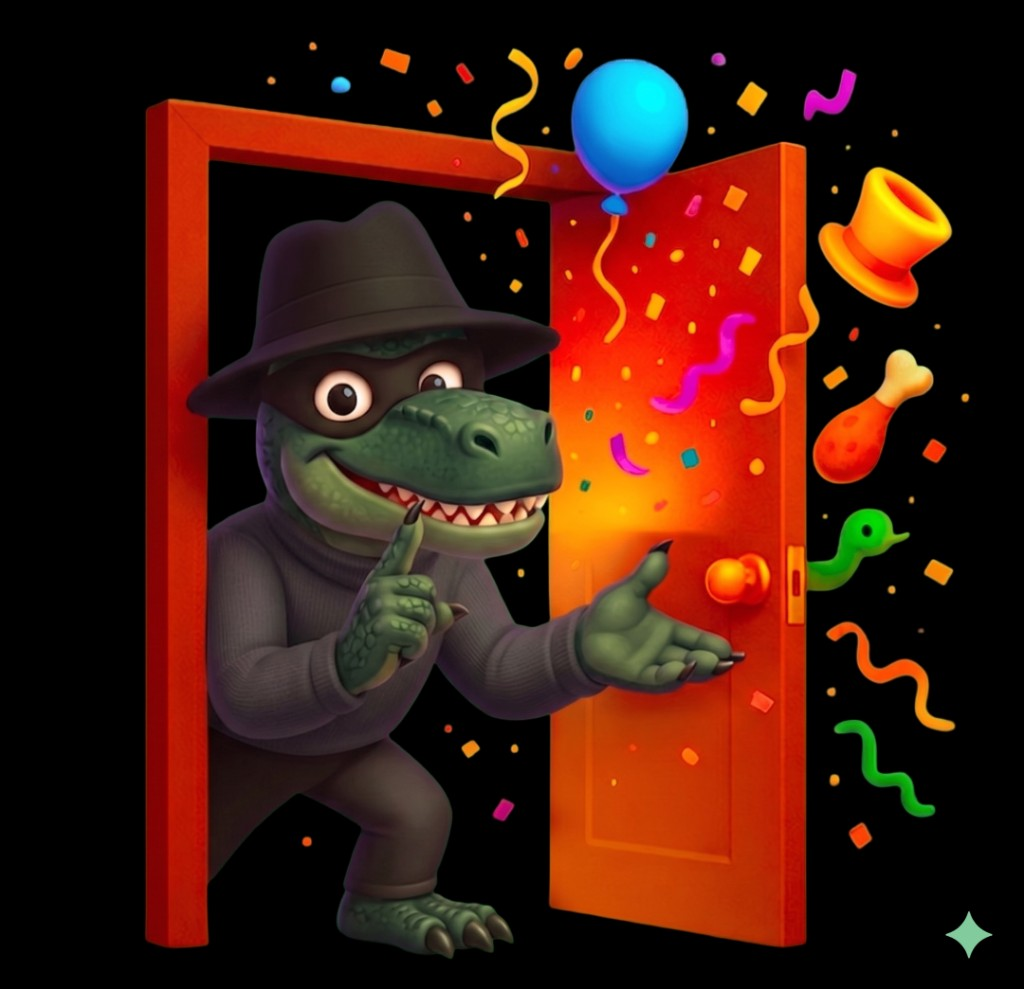
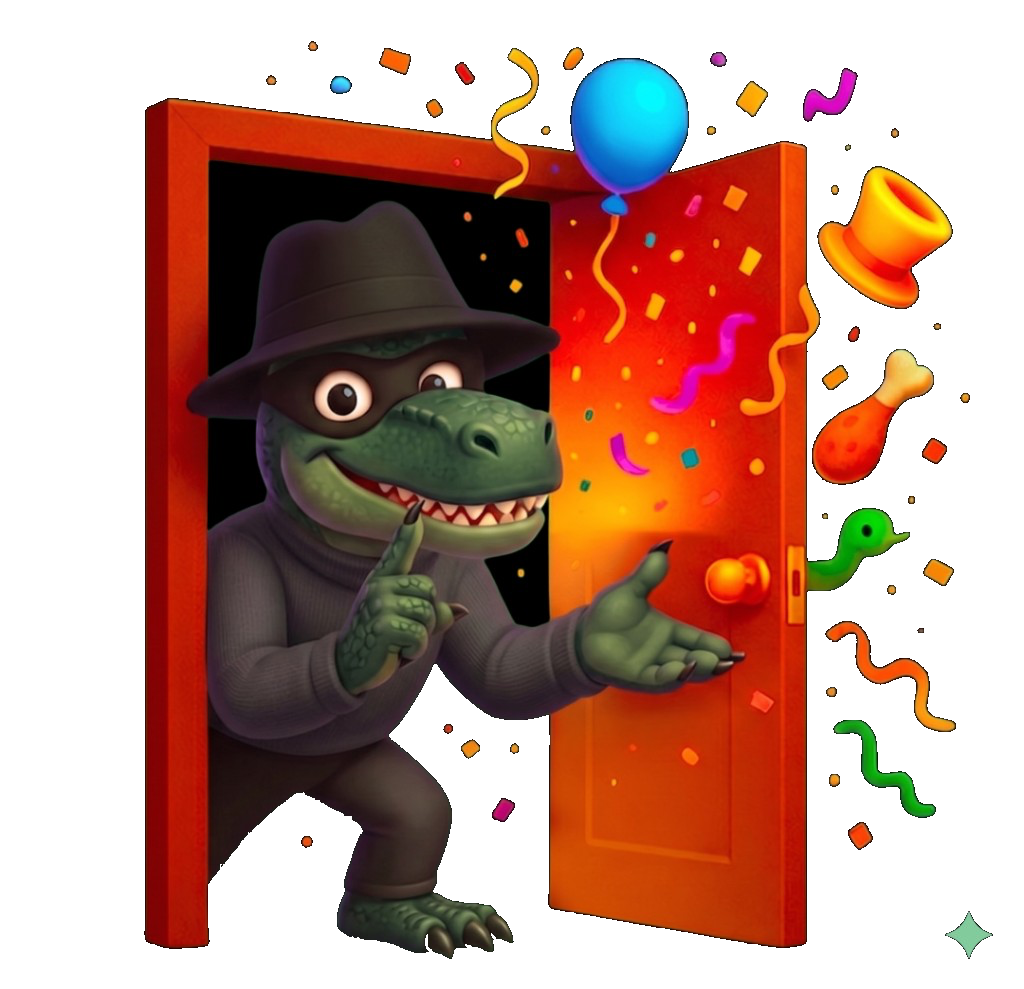
Paywall: category route, startup flow, UX, hero image, legal links
- Route locked categories to category paywall; later launches show category paywall before player setup
- Category paywall: plan selection, badges above borders, brighter cards, Terms/Privacy URLs
- Replace PaywallHeroTop asset; LoaderView uses hasCompletedOnboarding for first vs return launch

Made-with: Cursor

diff --git a/ImposterGame/Views/Paywall/CategoryPaywallView.swift b/ImposterGame/Views/Paywall/CategoryPaywallView.swift
@@ -4,9 +4,21 @@ struct CategoryPaywallView: View {
     @EnvironmentObject var router: AppRouter
     @EnvironmentObject var subscriptionManager: SubscriptionManager
     @Environment(\.dismiss) private var dismiss
+    @Environment(\.openURL) private var openURL
 
     @State private var isTrialEnabled = false
+    @State private var selectedPlan: Plan = .yearly
     @State private var showRestoreMessage = false
+
+    private enum Plan {
+        case yearly
+        case weekly
+    }
+
+    private enum CategoryPaywallLinks {
+        static let privacyURL = URL(string: "https://www.verte-bro.com/privacy-policy")
+        static let termsURL = URL(string: "https://www.verte-bro.com/terms-and-conditions")
+    }
 
     var body: some View {
         ZStack {
@@ -26,10 +38,13 @@ struct CategoryPaywallView: View {
 
                 freeAccessCard
 
-                yearlyPlanCard(dimmed: isTrialEnabled)
+                yearlyPlanCard(selected: selectedPlan == .yearly, dimmed: isTrialEnabled)
                     .padding(.top, 12)
-                weeklyPlanCard(selected: isTrialEnabled)
-                    .padding(.top, 10)
+                weeklyPlanCard(
+                    selected: selectedPlan == .weekly,
+                    badgeText: selectedPlan == .weekly ? "Most popular" : nil
+                )
+                .padding(.top, 10)
 
                 ctaButton
                     .padding(.top, 16)
@@ -92,29 +107,30 @@ struct CategoryPaywallView: View {
     }
 
     private var freeAccessCard: some View {
-        VStack(spacing: 10) {
+        Button(action: {
+            HapticsManager.selection()
+            withAnimation(.easeInOut(duration: 0.2)) {
+                isTrialEnabled.toggle()
+                if isTrialEnabled {
+                    selectedPlan = .weekly
+                }
+            }
+        }) {
+            VStack(spacing: 10) {
             HStack(spacing: 12) {
-                Button(action: {
-                    HapticsManager.selection()
-                    withAnimation(.easeInOut(duration: 0.2)) {
-                        isTrialEnabled.toggle()
-                    }
-                }) {
-                    ZStack {
+                ZStack {
+                    Circle()
+                        .stroke(Color.white.opacity(0.7), lineWidth: 2)
+                        .frame(width: 30, height: 30)
+                    if isTrialEnabled {
                         Circle()
-                            .stroke(Color.white.opacity(0.7), lineWidth: 2)
-                            .frame(width: 30, height: 30)
-                        if isTrialEnabled {
-                            Circle()
-                                .fill(Color.green)
-                                .frame(width: 28, height: 28)
-                            Image(systemName: "checkmark")
-                                .font(.antropicSerif(size: 14, weight: .bold))
-                                .foregroundColor(.white)
-                        }
+                            .fill(Color.green)
+                            .frame(width: 28, height: 28)
+                        Image(systemName: "checkmark")
+                            .font(.antropicSerif(size: 14, weight: .bold))
+                            .foregroundColor(.white)
                     }
                 }
-                .buttonStyle(.plain)
 
                 VStack(alignment: .leading, spacing: 2) {
                     Text(isTrialEnabled ? "Free access enabled" : "Not sure yet?")
@@ -141,18 +157,27 @@ struct CategoryPaywallView: View {
                     .padding(.leading, 44)
             }
         }
-        .padding(.horizontal, 16)
-        .padding(.vertical, 13)
-        .background(Color.white.opacity(0.04))
-        .clipShape(RoundedRectangle(cornerRadius: 18))
-        .overlay(
-            RoundedRectangle(cornerRadius: 18)
-                .stroke(Color.white.opacity(0.7), lineWidth: 1.5)
-        )
+            .padding(.horizontal, 16)
+            .padding(.vertical, 13)
+            .background(Color.white.opacity(0.16))
+            .clipShape(RoundedRectangle(cornerRadius: 18))
+            .overlay(
+                RoundedRectangle(cornerRadius: 18)
+                    .stroke(Color.white.opacity(0.7), lineWidth: 1.5)
+            )
+        }
+        .buttonStyle(.plain)
     }
 
-    private func yearlyPlanCard(dimmed: Bool) -> some View {
-        HStack {
+    private func yearlyPlanCard(selected: Bool, dimmed: Bool) -> some View {
+        Button(action: {
+            HapticsManager.selection()
+            withAnimation(.easeInOut(duration: 0.2)) {
+                selectedPlan = .yearly
+                isTrialEnabled = false
+            }
+        }) {
+            HStack {
             VStack(alignment: .leading, spacing: 2) {
                 Text("Yearly")
                     .font(.antropicSerif(size: 16, weight: .bold))
@@ -165,32 +190,46 @@ struct CategoryPaywallView: View {
             Text("0,96 USD/week")
                 .font(.antropicSerif(size: 16.5, weight: .bold))
                 .foregroundColor(.white)
+            }
+            .padding(.horizontal, 16)
+            .padding(.vertical, 14)
+            .background(
+                RoundedRectangle(cornerRadius: 16)
+                    .fill(Color.white.opacity(selected ? 0.24 : (dimmed ? 0.14 : 0.19)))
+            )
+            .overlay(
+                RoundedRectangle(cornerRadius: 16)
+                    .stroke(Color.white.opacity(selected ? 1.0 : (dimmed ? 0.2 : 0.65)), lineWidth: selected ? 2.5 : 1.5)
+            )
+            .overlay(alignment: .topTrailing) {
+                if selected {
+                    Text("Best value")
+                        .font(.antropicSerif(size: 11, weight: .bold))
+                        .foregroundColor(.white)
+                        .padding(.horizontal, 10)
+                        .padding(.vertical, 4)
+                        .background(
+                            Capsule()
+                                .fill(Color(red: 0.95, green: 0.28, blue: 0.63))
+                        )
+                        .offset(x: -10, y: -10)
+                        .zIndex(2)
+                }
+            }
+            .opacity(dimmed && !selected ? 0.52 : 1.0)
         }
-        .padding(.horizontal, 16)
-        .padding(.vertical, 14)
-        .background(Color.white.opacity(dimmed ? 0.08 : 0.14))
-        .clipShape(RoundedRectangle(cornerRadius: 16))
-        .overlay(alignment: .topTrailing) {
-            Text("Best value")
-                .font(.antropicSerif(size: 11, weight: .bold))
-                .foregroundColor(.white)
-                .padding(.horizontal, 10)
-                .padding(.vertical, 4)
-                .background(
-                    Capsule()
-                        .fill(Color(red: 0.95, green: 0.28, blue: 0.63))
-                )
-                .offset(x: -10, y: -10)
-        }
-        .overlay(
-            RoundedRectangle(cornerRadius: 16)
-                .stroke(Color.white.opacity(dimmed ? 0.2 : 0.65), lineWidth: 1.5)
-        )
-        .opacity(dimmed ? 0.52 : 1.0)
+        .buttonStyle(.plain)
     }
 
-    private func weeklyPlanCard(selected: Bool) -> some View {
-        HStack {
+    private func weeklyPlanCard(selected: Bool, badgeText: String?) -> some View {
+        Button(action: {
+            HapticsManager.selection()
+            withAnimation(.easeInOut(duration: 0.2)) {
+                selectedPlan = .weekly
+                isTrialEnabled = true
+            }
+        }) {
+            HStack {
             VStack(alignment: .leading, spacing: 2) {
                 Text("Weekly")
                     .font(.antropicSerif(size: 16, weight: .bold))
@@ -203,15 +242,34 @@ struct CategoryPaywallView: View {
             Text("9,99 USD/week")
                 .font(.antropicSerif(size: 16.5, weight: .bold))
                 .foregroundColor(.white)
+            }
+            .padding(.horizontal, 16)
+            .padding(.vertical, 14)
+            .background(
+                RoundedRectangle(cornerRadius: 16)
+                    .fill(Color.white.opacity(selected ? 0.22 : 0.16))
+            )
+            .overlay(
+                RoundedRectangle(cornerRadius: 16)
+                    .stroke(Color.white.opacity(selected ? 0.95 : 0.45), lineWidth: 1.5)
+            )
+            .overlay(alignment: .topTrailing) {
+                if let badgeText {
+                    Text(badgeText)
+                        .font(.antropicSerif(size: 11, weight: .bold))
+                        .foregroundColor(.white)
+                        .padding(.horizontal, 10)
+                        .padding(.vertical, 4)
+                        .background(
+                            Capsule()
+                                .fill(Color(red: 0.95, green: 0.28, blue: 0.63))
+                        )
+                        .offset(x: -10, y: -10)
+                        .zIndex(2)
+                }
+            }
         }
-        .padding(.horizontal, 16)
-        .padding(.vertical, 14)
-        .background(Color.white.opacity(selected ? 0.18 : 0.12))
-        .clipShape(RoundedRectangle(cornerRadius: 16))
-        .overlay(
-            RoundedRectangle(cornerRadius: 16)
-                .stroke(Color.white.opacity(selected ? 0.95 : 0.45), lineWidth: 1.5)
-        )
+        .buttonStyle(.plain)
     }
 
     private var ctaButton: some View {
@@ -238,8 +296,16 @@ struct CategoryPaywallView: View {
 
     private var footerLinks: some View {
         HStack(spacing: 26) {
-            Button("Terms") {}
-            Button("Privacy") {}
+            Button("Terms") {
+                if let url = CategoryPaywallLinks.termsURL {
+                    openURL(url)
+                }
+            }
+            Button("Privacy") {
+                if let url = CategoryPaywallLinks.privacyURL {
+                    openURL(url)
+                }
+            }
             Button("Restore") {
                 subscriptionManager.restorePurchases()
                 showRestoreMessage = true
@@ -251,6 +317,10 @@ struct CategoryPaywallView: View {
     }
 
     private func closePaywall() {
+        if router.path.count <= 1 {
+            router.navigate(to: .playerSetup)
+            return
+        }
         dismiss()
         if !router.path.isEmpty {
             router.pop()

diff --git a/ImposterGame/Views/Paywall/PaywallView.swift b/ImposterGame/Views/Paywall/PaywallView.swift
@@ -3,9 +3,15 @@ import SwiftUI
 struct OnboardingPaywallView: View {
     @EnvironmentObject var router: AppRouter
     @EnvironmentObject var subscriptionManager: SubscriptionManager
+    @Environment(\.openURL) private var openURL
     @State private var enableFreeTrial = false
     @State private var appearAnimation = false
     @State private var showRestoreMessage = false
+
+    private enum OnboardingPaywallLinks {
+        static let privacyURL = URL(string: "https://www.verte-bro.com/privacy-policy")
+        static let termsURL = URL(string: "https://www.verte-bro.com/terms-and-conditions")
+    }
 
     var body: some View {
         ZStack {
@@ -228,8 +234,16 @@ struct OnboardingPaywallView: View {
 
     private var footerLinks: some View {
         HStack(spacing: 30) {
-            Button("Terms") {}
-            Button("Privacy") {}
+            Button("Terms") {
+                if let url = OnboardingPaywallLinks.termsURL {
+                    openURL(url)
+                }
+            }
+            Button("Privacy") {
+                if let url = OnboardingPaywallLinks.privacyURL {
+                    openURL(url)
+                }
+            }
             Button("Restore") {
                 subscriptionManager.restorePurchases()
                 showRestoreMessage = true

diff --git a/ImposterGame/Views/Loader/LoaderView.swift b/ImposterGame/Views/Loader/LoaderView.swift
@@ -2,6 +2,7 @@ import SwiftUI
 
 struct LoaderView: View {
     @EnvironmentObject var router: AppRouter
+    @EnvironmentObject var subscriptionManager: SubscriptionManager
     /// Avoid re-running the post-splash navigation when the root loader briefly reappears (e.g. empty `NavigationPath`).
     private static var didScheduleInitialNavigation = false
     @State private var logoScale: CGFloat = 0.5
@@ -74,8 +75,13 @@ struct LoaderView: View {
             Self.didScheduleInitialNavigation = true
             // Short beat so the logo can begin its animation; avoid a multi-second artificial wait before onboarding.
             DispatchQueue.main.asyncAfter(deadline: .now() + 0.45) {
-                // Onboarding is shown on every cold start; paywall / home follow after the flow.
-                router.navigate(to: .onboarding)
+                if !subscriptionManager.hasCompletedOnboarding {
+                    // First launch: onboarding flow includes onboarding paywall.
+                    router.navigate(to: .onboarding)
+                } else {
+                    // Later launches: always show category paywall before player setup.
+                    router.navigate(to: .categoryPaywall)
+                }
             }
         }
     }

diff --git a/ImposterGame/Views/Categories/CategoriesView.swift b/ImposterGame/Views/Categories/CategoriesView.swift
@@ -94,7 +94,7 @@ struct CategoriesView: View {
                                 onTap: {
                                     if index != 0 {
                                         HapticsManager.notification(.warning)
-                                        router.navigate(to: .paywall)
+                                        router.navigate(to: .categoryPaywall)
                                         return
                                     }
                                     HapticsManager.selection()
